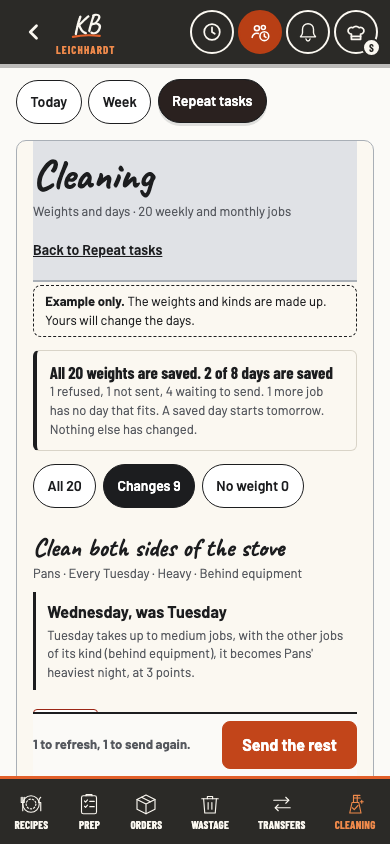
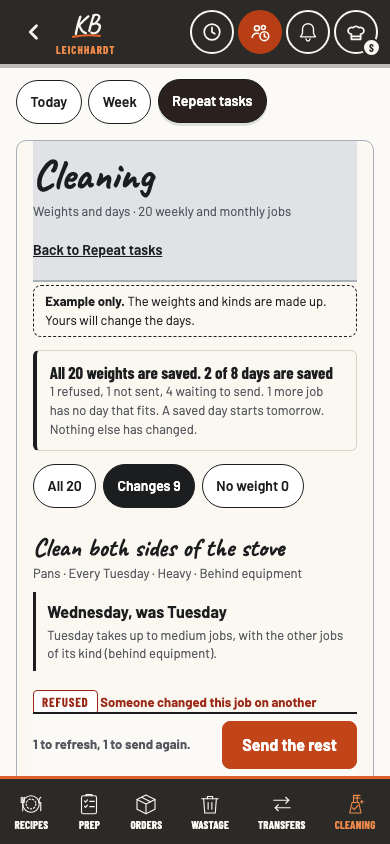
Cleaning council restart: corrections, the session map and a home path taken out of the packets
A moved job no longer claims a new heaviest night it already was (40 node
checks). The brief names what was and was not taken from each reviewer.
Two packet files held the lead computer's home path: replaced.

Changed region(s): [[0.0615, 0.7701, 0.8, 0.8626]]

diff --git a/docs/cleaning-tracking-options/previews/planner.test.js b/docs/cleaning-tracking-options/previews/planner.test.js
@@ -75,6 +75,7 @@ const bare = J.jobs(chosen); bare.find(j => j.id === 'new-grill-sticks').w = 0; 
 ok(nw.days['new-grill-sticks'] === undefined && nw.noWeight.join() === 'new-grill-sticks' && /No weight yet/.test(nw.why['new-grill-sticks']), 'a job with no weight is not planned and says "No weight yet"');
 ok(Object.keys(lv).concat(['few']).every(k => Object.values((k === 'few' ? few2 : lv[k]).why).every(w => !/light day/.test(w))), 'no reason calls a night "a light day": light is a job\'s weight and a day\'s level only');
 // round 2: a refused day says so first, and a suggested night that becomes the section's heaviest says so (the skeptic's case)
+ok(!/becomes/.test(few2.why['sc-pans-02']), 'a job moved off a night it was already the whole of does not claim a new heaviest night (' + few2.why['sc-pans-02'] + ')');
 ok(/^Tuesday takes up to medium jobs/.test(few2.why['sc-pans-02']), 'a heavy job moved off a medium Tuesday says so first (' + few2.why['sc-pans-02'] + ')');
 const afterPlan = J.jobs(chosen).map(j => few2.days[j.id] && !j.every ? Object.assign(j, { days: few2.days[j.id].slice() }) : j).concat([{ id: 'late', text: 'A heavy job added later', sec: 'Hot larder', kind: '', w: 3, per: 1, days: [], every: 0, move: true }]);
 const lateJob = P.plan(afterPlan, { level: LEVEL, order: 'section', only: 'new' });

diff --git a/docs/cleaning-tracking-options/previews/planner.js b/docs/cleaning-tracking-options/previews/planner.js
@@ -118,7 +118,7 @@
         var worst = j.sec ? [0, 1, 2, 3, 4, 5, 6].reduce(function (n, d) { return Math.max(n, ((sec[j.sec] || [])[d] || 0) + (set.indexOf(d) >= 0 ? cost(j) : 0)); }, 0) : 0;
         var over = load > cap, score = (sectionFirst ? 100000 * worst : 0) + (over ? 0 : -1000 * mates) + (set.join(',') === was ? (together ? -300 : -100000) : 0) + 150 * q + 100 * load + 10 * set.reduce(function (n, d) { return n + kitchen[d]; }, 0);
         if (over && mates) kindGave = true;
-        if (!best || score < best.score) best = { set: set, score: score, mates: mates, over: over, load: load, before: j.sec ? Math.max.apply(null, sec[j.sec] || [0]) : 0 };
+        if (!best || score < best.score) best = { set: set, score: score, mates: mates, over: over, load: load, before: j.sec ? Math.max(Math.max.apply(null, sec[j.sec] || [0]), hasDay(j) ? j.days.reduce(function (n, d) { return Math.max(n, ((sec[j.sec] || [])[d] || 0) + cost(j)); }, 0) : 0) : 0 };
       });
       if (!best) { out.days[j.id] = (j.days || []).slice(); out.why[j.id] = 'No day fits the rules. Left as it is.'; return; }
       best.set.forEach(function (d) { put(j, d); if (quiet.indexOf(d) >= 0) quietUsed++; });

diff --git a/docs/cleaning-tracking-options/brief.md b/docs/cleaning-tracking-options/brief.md
@@ -125,7 +125,7 @@ Each line names who asked for it. These are not one agreed list.
 
 ### The reviewers' numbers, run again in the planner
 
-Three figures above came from reviewers' own throwaway scripts. Each is now an option in `previews/planner.js` (37 node checks, defaults untouched) and a column in `previews/many.js` (2,000 random weightings, seeded).
+Three figures above came from reviewers' own throwaway scripts. Each is now an option in `previews/planner.js` (37 node checks then, 40 now, defaults untouched) and a column in `previews/many.js` (2,000 random weightings, seeded).
 
 | Order, weights at random and kinds as one example | A section's heaviest night heavier than with days kept | None heavier, some lighter | Heaviest section night, average | Dated jobs moved, of 15 | Kinds with a shared day | One job added after a save, planned again: a saved job moves | The same, planning only the new job |
 | --- | --- | --- | --- | --- | --- | --- | --- |
@@ -300,7 +300,7 @@ Preview inside the Implemented app's frame. Nothing was tapped or saved.
 | --- | --- | --- |
 | Keeper | Store weights and kinds in one side record keyed by the job's root id: one write, read by chefs when the view opens, never by cooks. Then only the jobs whose day changes are saved again (8, inside the 9 spare reads), and weights need no gate | Save now reads "20 weights and 8 days". The store is a build choice, recommended below |
 | Skeptic | Ship the count, the Inbox row and Records first, alone. No Keep on a row whose old day breaks a day's level. Any Keep or Another day plans the rest again before Save. The 5 dated general jobs get rows, or the "29" goes. Hold "A move on offer" out of the first build | No Keep there; the offer is gone; the "29" is gone. Planning again after Keep is not drawn. The 5 general jobs still have no row |
-| Screen designer | Rows first, with the scope and day sentences in the fold. In Changes, weight and kind as words and tags only for exceptions. Refused in failure ink, what needs the chef first. Lift the Save bar only to 719 px. A lasting link to the view. One word for a miss, his call. Correct the Cleaning-on picture | All but the one word, which is his call, and fixed columns at 1280 px |
+| Screen designer | Rows first, with the scope and day sentences in the fold. In Changes, weight and kind as words and tags only for exceptions. Refused in failure ink, what needs the chef first. Lift the Save bar only to 719 px. A lasting link to the view. One word for a miss, his call. Correct the Cleaning-on picture | The weights and changes pages, the Save bar and the Cleaning-on picture. Not done: the one word, which is his call; fixed columns at 1280 px; and the Records night, which was not redrawn, so on a phone the miss still sits below the first screen under today's red "Missed" line |
 
 Break-it, follow-up:
 
@@ -315,16 +315,16 @@ Break-it, follow-up:
 
 ## Recommendation
 
-**Recommend the combined design: B's one list leads, the results are the Inbox row and that night in Records, and it is built results first.** Five of six ranked B first and five said a blend beats any one design. The skeptic ranked A first; his build order and his cuts are taken.
+**Recommend the combined design: B's one list leads, the results are the Inbox row and that night in Records, and it is built results first.** Five of six ranked B first and five said a blend beats any one design. The skeptic ranked A first. Taken from him: results first, no Keep on a day that breaks a level, no offers in the first build, and bulk suggestions only while Cleaning is off. Not taken: his main cut, no button that suggests days until real weights exist.
 
 Build order, each step its own pull request:
 
 1. **The nightly count.** It honours the release switch and stores the first night Cleaning is on (D1). For weekly and monthly jobs only it keeps each job by its root id, its section, done or not, who did it and who was rostered; Unable to complete outside the totals. The size check moves inside the cleaning block, with a node test at full lists. No screen.
 2. **The Inbox row and that night in Records** (`m6`, `m7`). Admin only as the rules stand.
 3. **Weights and days, the list** (`m1`, `m2`). Weights and the optional kind in one side record keyed by root id. That is the keeper's pick and the lead's: one write, no new version of any job, no cook reads, and a weight can be set before or after switch-on. Its cost: the server checks the record's shape, not each job against its weight.
-4. **Suggest the days** (`m3`, `m4`), fewest moves, in bulk only while Cleaning is off. After switch-on, new jobs only (`m5`), and no offers in the first build.
+4. **Suggest the days** (`m3`, `m4`), fewest moves, in bulk only while Cleaning is off. After switch-on, new jobs only (`m5`), and no offers in the first build. A job cannot be saved with no day under today's rules, so a new job gets its day in the Add cleaning task form, with the suggestion and the "today means tonight" warning drawn in `a1` and `c3`. The "No day yet" rows in `m3` and `m5` stand for jobs a chef is adding: the list cannot hold them until that form has given them a day, or the rules change.
 
-Why it beats the three as drawn: A never gets the weights set (60 taps, one form at a time) and has no button, his first ask. B alone plans in bulk at any time and adds a Reports tab that is off screen on a phone and empty for weeks. C replans 10 of 15 of his days to reach the same heaviest nights as 3 moves, and builds steps used once. The mix keeps the part every reviewer took from each: B's list, A's Records night, C's timing.
+Why it beats the three as drawn: A never gets the weights set (60 taps, one form at a time) and has no button, his first ask. B alone plans in bulk at any time and adds a Reports tab that is off screen on a phone and empty for weeks. C replans 10 of 15 of his days to reach the same heaviest nights as 3 moves in the example (over 2,000 random weightings, 3.5 points against 3.8), and builds steps used once. The mix keeps B's list and A's Records night, which all six took, and C's timing, which three took in round 2 and which is not agreed (below).
 
 Principles that help: Todoist (a suggested day you can keep or change), Airbnb (the day, the old day, the reason and the state in one row), Things 3 (only the changes; names behind a link), Flighty (honest dates, "Count not ready"), Linear (no new room, one Save bar), Duolingo (Saved, Not sent and Refused in words; no totals per person).
 

diff --git a/docs/session-map.md b/docs/session-map.md
@@ -18,15 +18,15 @@ Not built: step 3 (This screen's section on a shared kitchen screen). After it, 
 
 Records' nightly cleaning count kept its own copy of how the Cleaning page reads a day, as did `cleaningDue()` in `js/prep.js`. All three now use `js/cleaning-core.js` (lazy, shared with node, like `js/analysis-core.js`). `cleaningDue()` asks the core, which loads with the Cleaning page, and refuses a write without it. A tidy-up, no council: the results are the same, proved on a synthetic programme of 124 jobs and 14,089 records against the copies as they were, so `CLEAN_V` stays 1. `tests/cleaning-core.test.js`, [Cleaning](cleaning-schedule.md#one-reading-of-a-day).
 
-## Cleaning tracking and planning the days, 26 November 2026 (council, not chosen)
+## Cleaning results by section and planning the days, 26 November 2026 (second council, not chosen)
 
-The head chef asked for cleaning tracking in the admin panel and a button that plans which day each cleaning job falls on. His scope: a time weight in three steps on each job, Friday and Saturday for light jobs only and about a tenth of the week, jobs that have a day can move, jobs of one kind across sections on the same day, a missed job as its section's with who was on kept in the background, and a flag the next morning. Council: round 1 Build smaller for both (tracking 5 of 5; the button 4 of 5, the skeptic Don't build); round 2 the list of changes first for planning (4 of 6), by job first for tracking (5 of 6); a follow-up by three reviewers on two mixes, then a redraw no reviewer has seen. Recommended: the nightly count first, then weight and kind with Plan the days, then Cleaning by section. Not chosen. Nothing in the book changed. [Brief](cleaning-tracking-options/brief.md).
+The head chef asked for cleaning tracking in the admin panel and a button that plans which day each cleaning job falls on: a weight in three steps on each job, each weekday set for the heaviest job it takes, Friday and Saturday light only, dated jobs can move, same-kind jobs on one day, a missed job as its section's with a flag the next morning. A first council ran, then he asked for it to start again from scratch with the screen designer in both rounds. Second council: round 1 Build smaller 6 of 6; round 2, three whole designs drawn inside the book's real pages, B (one list) first for 5 of 6; a combined design checked by three reviewers and redrawn. Recommended: the combined design, built results first (the nightly count, the Inbox row and Records, the weights list, then suggested days). Not chosen. Nothing in the book changed. [Brief](cleaning-tracking-options/brief.md).
 
 | Files | Role and checks |
 | --- | --- |
-| `docs/cleaning-tracking-options/` | Proposal, brief, the three reviewer packets, the design page (`index.html`), and `previews/`: the pages with `build.cjs`, the preview planner `planner.js` (pure; `plan()`, `check()`, `tonight()`) with `planner.test.js` (32 node checks, run by hand, not by Click tests) and `jobs.js` (example kinds and weights, made up). |
+| `docs/cleaning-tracking-options/` | `proposal.md`, the three reviewer packets, `brief.md`, the design page (`index.html`), `baseline/` (today's pages from main, `shots.cjs`), `designs/` (A, B, C and the combined design drawn inside the real pages by `build.cjs` and `frame.cjs`, with `measurements.json`), `previews/` (the preview planner `planner.js` with `plan()`, `check()`, `tonight()`, 40 node checks run by hand, `many.js` for 2,000 random weightings, `jobs.js` with made-up kinds and weights), and `first-council*` (the first council, set aside). |
 
-Answered by the head chef on 26 November: a close never finishes after midnight; Thursday is a heavy day and Tuesday a medium one; the admin sets each day's level. Open: the order when same-kind days and an even week clash (the lead recommends the section's night first), whether Sunday, Monday and Wednesday are heavy, which jobs the flag covers, plan or own pick for "on that section", admin only or sous chefs too.
+Open with the head chef: the build order, whether the book suggests in bulk only while Cleaning is off, whether the flag covers nightly Pack down, whether Sunday, Monday and Wednesday take heavy jobs, which section owns a shared job that names two, one word for a miss, who sets what each day takes, and the lead's two suggested planner rules.
 
 ## Fewer reloads and a clearer long wait, 24 November 2026 (chosen)
 

diff --git a/docs/cleaning-tracking-options/round2-packet.md b/docs/cleaning-tracking-options/round2-packet.md
@@ -8,7 +8,7 @@
 2. `docs/cleaning-tracking-options/proposal.md`: the head chef's words, what he has decided (D1 to D8), the lead's readings, what exists today, the current contracts. Its planner table is replaced by the one below.
 3. The pictures under `docs/cleaning-tracking-options/designs/`, listed below. Each scene has `-390.png` (the first phone screen), `-390-full.png` (the whole page) and `-1280.png`. Start with the `-390-full.png` of each scene, then the `-1280.png` where your seat needs it. `designs/measurements.json` holds every count.
 4. Today's pages, for before and after: `docs/cleaning-tracking-options/baseline/` and its `counts.json`.
-5. Source, to check a claim: the application at the packet's commit is in the main checkout, `/Users/danielkuschmierz/Documents/leichhardt kitchen book` (read only). You may run node on `previews/planner.js`, `previews/planner.test.js`, `previews/jobs.js` and `previews/many.js`.
+5. Source, to check a claim: the application at the packet's commit is in the main checkout, the main checkout of this repository on the lead's computer (read only). You may run node on `previews/planner.js`, `previews/planner.test.js`, `previews/jobs.js` and `previews/many.js`.
 
 Do not read `first-council*` files or the pictures in `previews/`: an earlier council, set aside at the head chef's word. You may read the Round 1 part of `brief.md`. Change no file.
 

diff --git a/docs/cleaning-tracking-options/round1-packet.md b/docs/cleaning-tracking-options/round1-packet.md
@@ -6,7 +6,7 @@
 
 1. `docs/cleaning-tracking-options/proposal.md`, in full. It holds the head chef's words, what he has decided, the lead's readings, the open questions, what exists today, the planner numbers, the cost, the baseline pictures and the current contracts.
 2. The pictures it lists under `docs/cleaning-tracking-options/baseline/`. Open them.
-3. Source, to check a claim. The application source at the packet's commit is in the main checkout, `/Users/danielkuschmierz/Documents/leichhardt kitchen book` (read only: change nothing there). This worktree's `js/` is older.
+3. Source, to check a claim. The application source at the packet's commit is in the main checkout, the main checkout of this repository on the lead's computer (read only: change nothing there). This worktree's `js/` is older.
 
 Do not read `first-council*.md`, `first-council.html` or the pictures in `previews/`. They are an earlier council's work and the head chef asked for a fresh start. `previews/planner.js`, `previews/planner.test.js`, `previews/jobs.js` and `previews/many.js` are the planner and you may read and run them with node.
 
